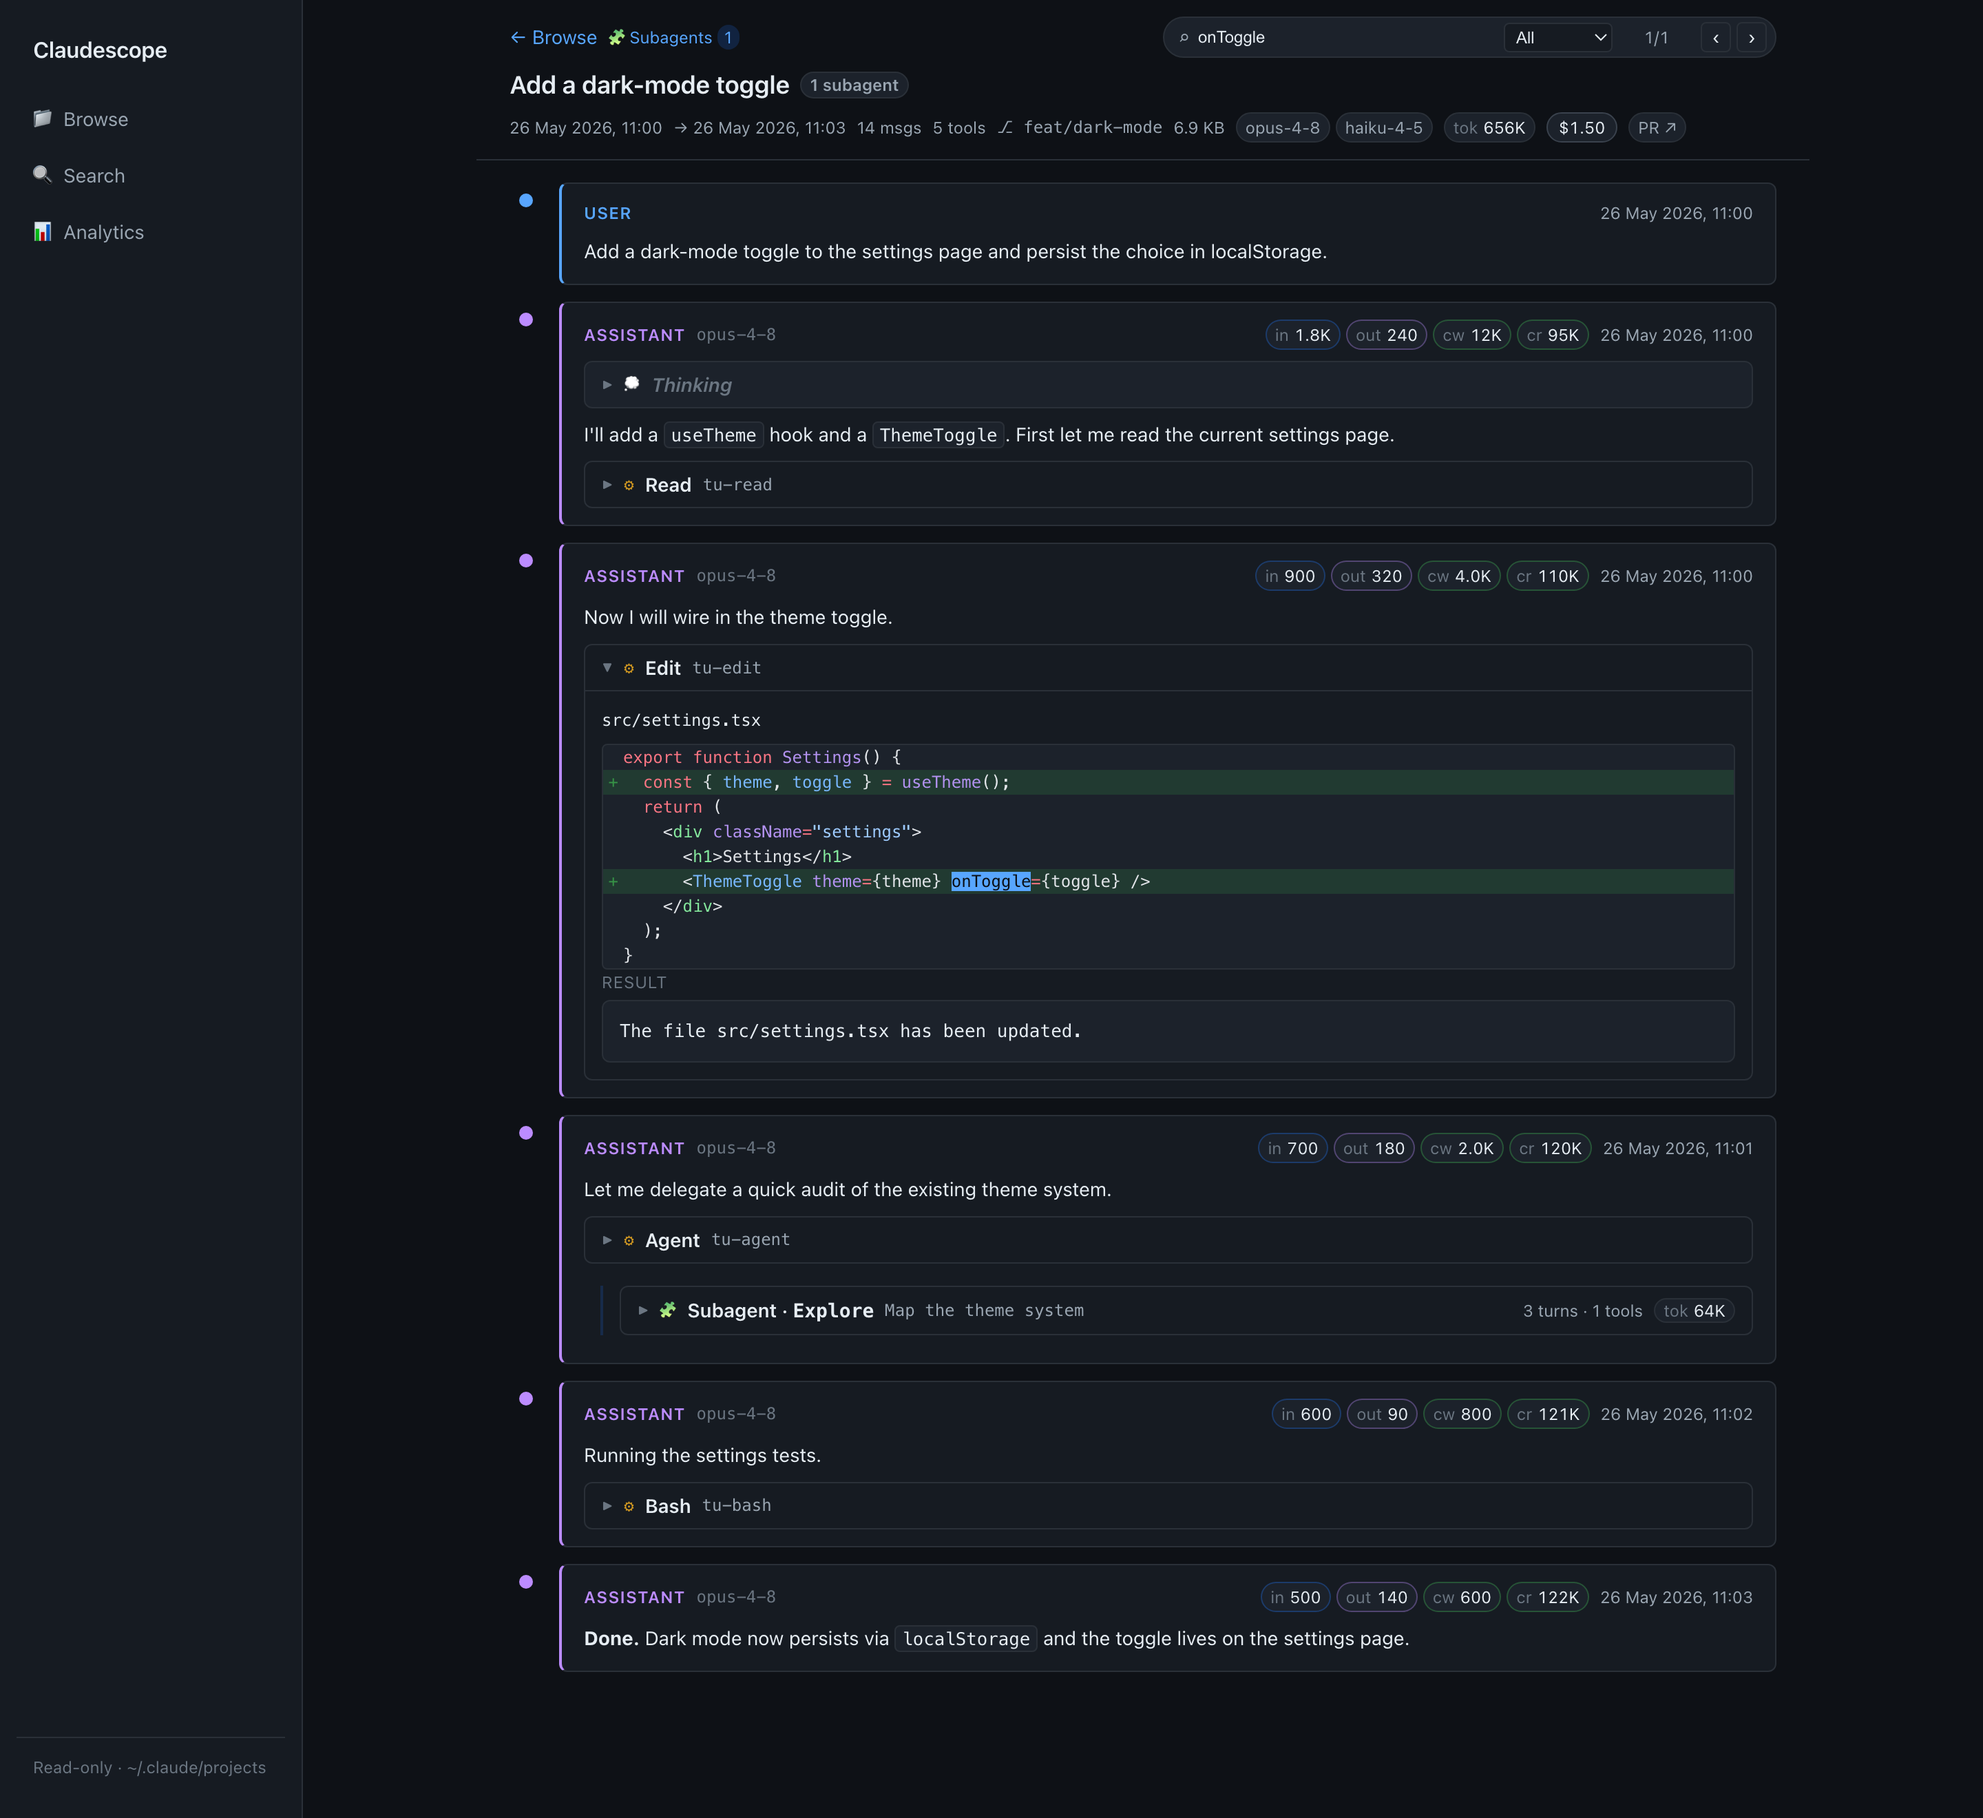
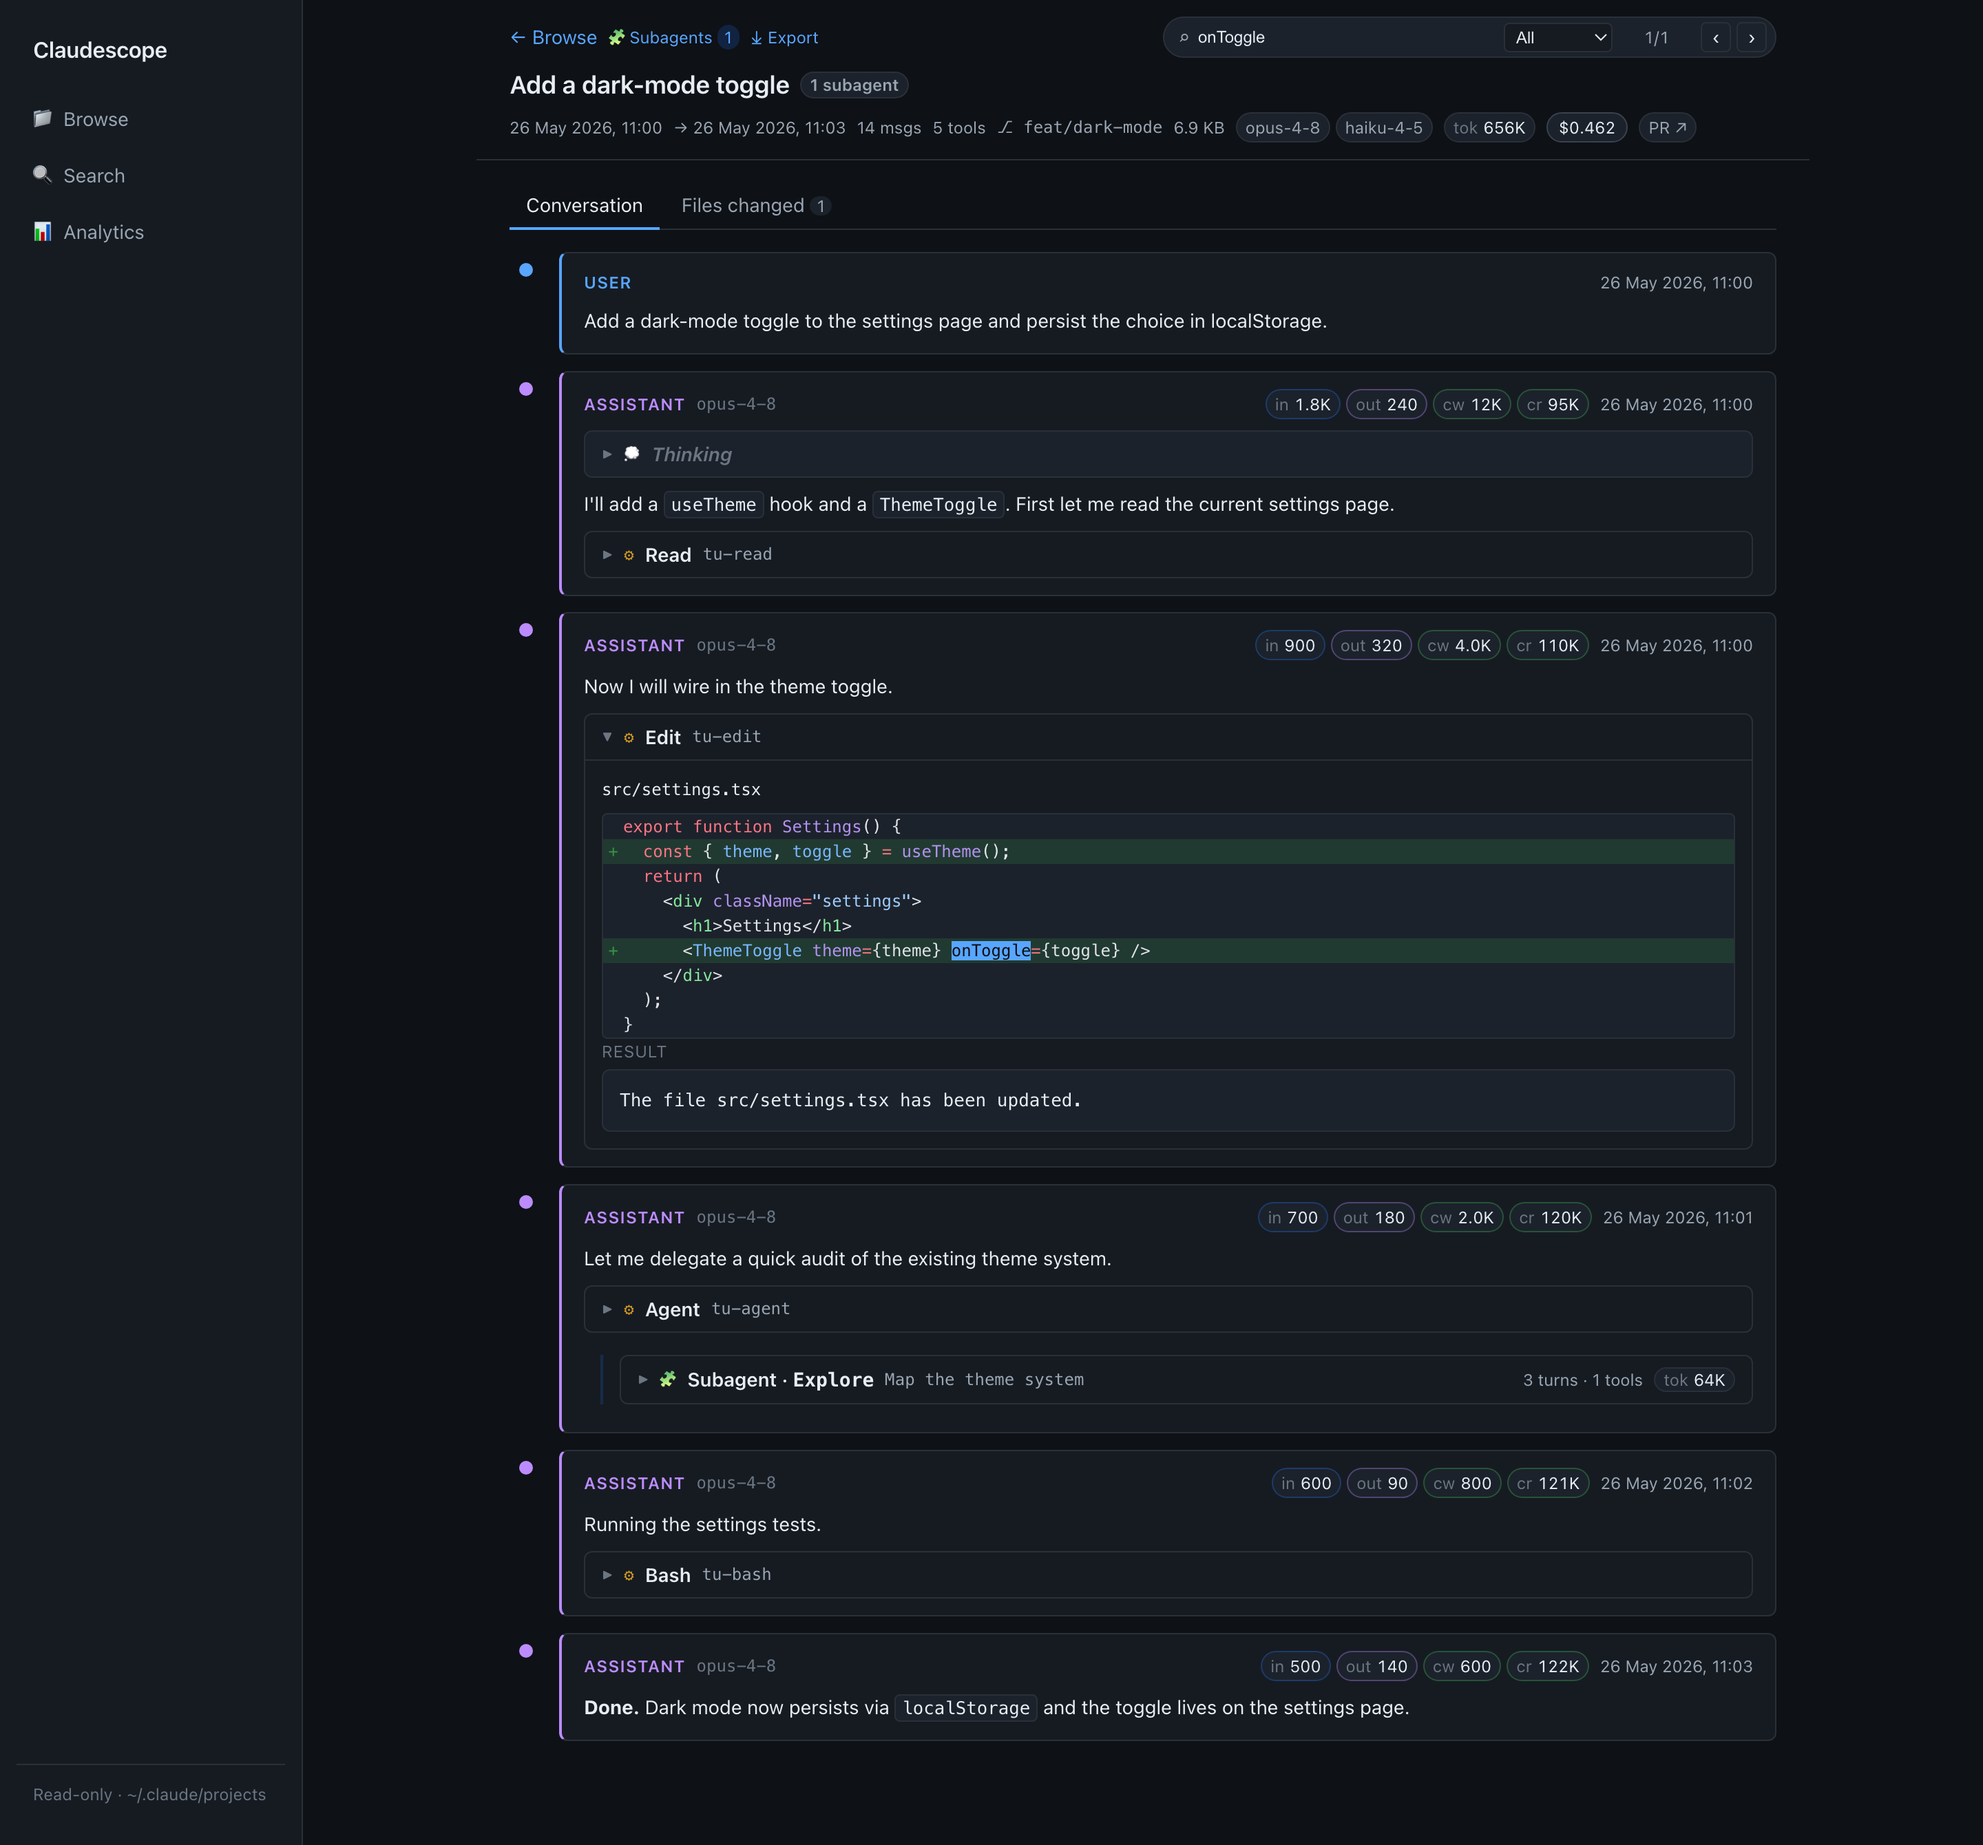
docs: refresh session screenshot for tabs + export
Regenerate the session-reader screenshot to show the Conversation/Files-changed tabs and the Export button, and update its caption.

diff --git a/README.md b/README.md
@@ -35,9 +35,10 @@ tool counts, token totals, cost, git branch, and PR links.
 **Read** — a session as a clean threaded conversation: markdown, collapsible
 thinking, **syntax-highlighted red/green diffs** for `Edit`/`MultiEdit`, nested
 **subagent** runs, per-message token chips, and a **find-in-session** bar (⌘/Ctrl+F)
-that auto-expands and highlights matches.
+that auto-expands and highlights matches. **Conversation / Files-changed** tabs and
+an **⤓ Export** (Markdown, optional redaction) sit in the header.
 
-![Session reader with a highlighted diff and the in-session finder](docs/screenshots/session.png)
+![Session reader: tabs, Export, the in-session finder, and a highlighted diff](docs/screenshots/session.png)
 
 **Search** — full-text across every session (DuckDB BM25) with highlighted
 snippets and user/assistant filters; each result deep-links to the exact message.
